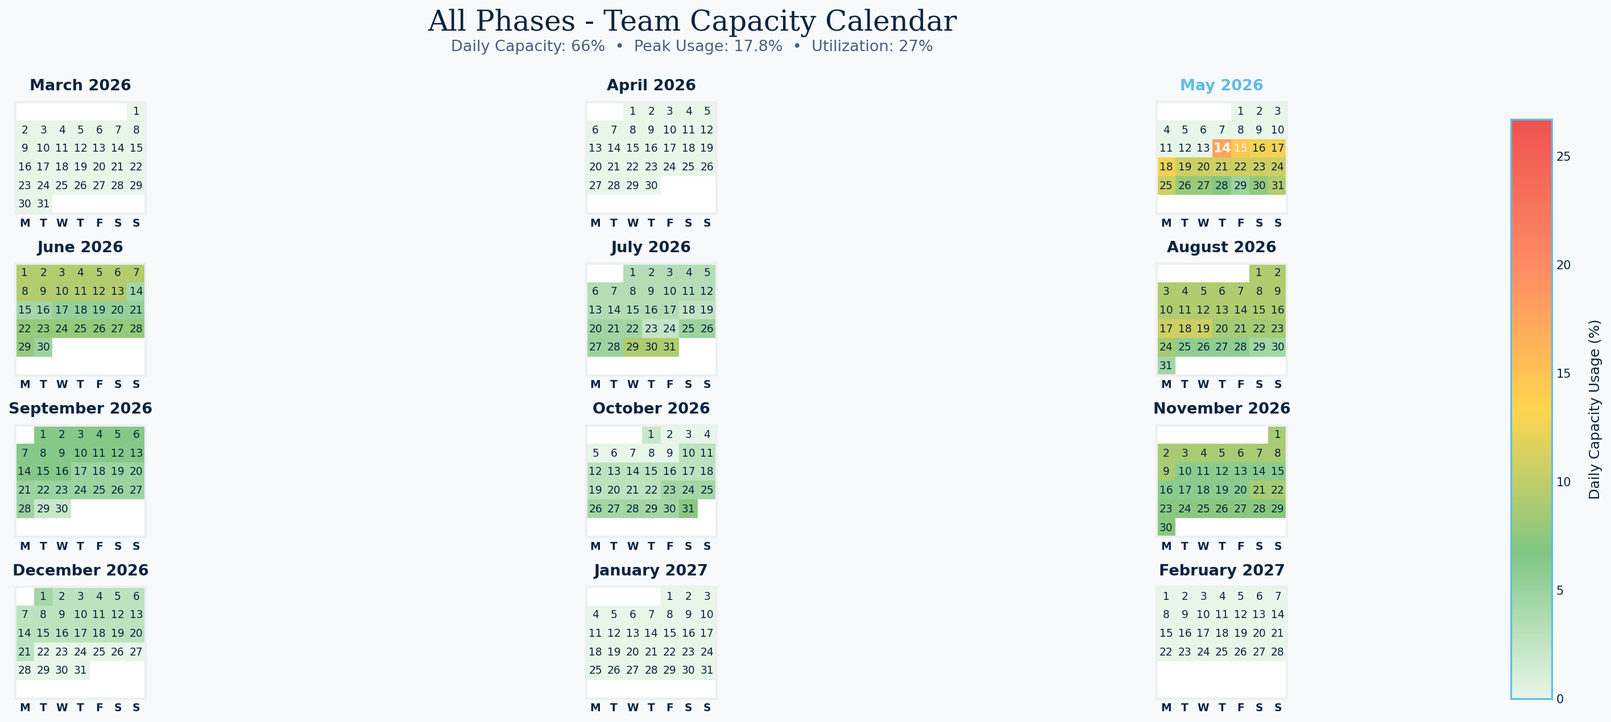
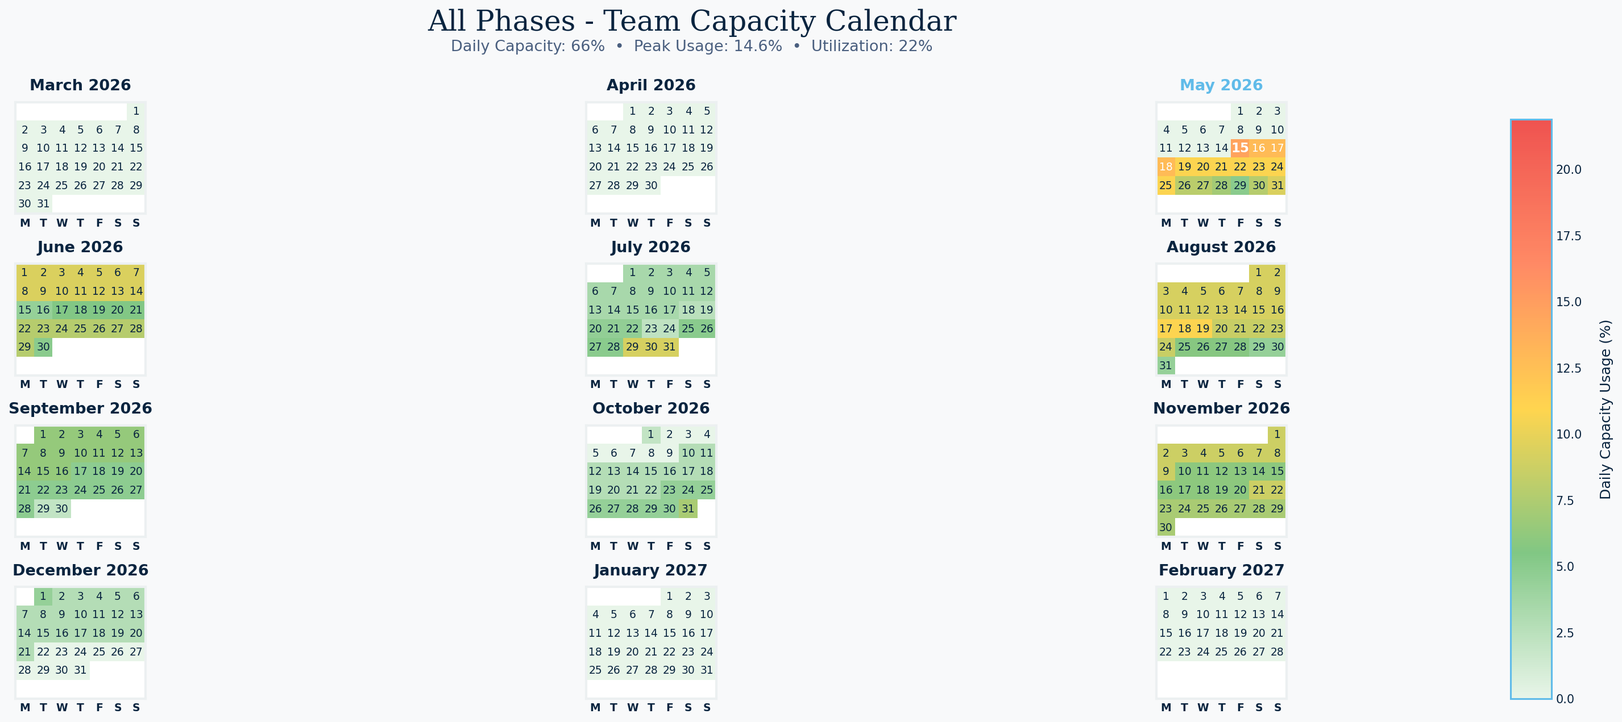
Update dashboard with latest data
🤖 Generated with [Claude Code](https://claude.com/claude-code)

diff --git a/Reports/capacity_dashboard.html b/Reports/capacity_dashboard.html
@@ -2449,7 +2449,7 @@
                 <div class="header-text">
                     <h1 id="dashboard-title">Perimeter Studio Dashboard</h1>
                     <p class="subtitle">Video Production Capacity Tracking & Performance Metrics</p>
-                    <p class="timestamp" aria-live="polite" aria-label="Dashboard last updated">Last Updated: May 14, 2026 at 11:45 PM</p>
+                    <p class="timestamp" aria-live="polite" aria-label="Dashboard last updated">Last Updated: May 15, 2026 at 12:00 AM</p>
                 </div>
                 <button class="theme-toggle" onclick="toggleTheme()" aria-label="Toggle dark/light mode" aria-describedby="theme-description">
                     <span id="themeText">Dark Mode</span>
@@ -2589,7 +2589,7 @@
                         Post Production | Adriel Abella | Due: 2026-04-06
                     </div>
                     <div class="task-risk">
-                        • Overdue by 38 days
+                        • Overdue by 39 days
                     </div>
                 </div>
             
@@ -2599,7 +2599,27 @@
                         Post Production | Adriel Abella | Due: 2026-04-08
                     </div>
                     <div class="task-risk">
-                        • Overdue by 36 days
+                        • Overdue by 37 days
+                    </div>
+                </div>
+            
+                <div class="at-risk-item">
+                    <div class="project-task-name">WOV - Hanan Betancourt</div>
+                    <div class="task-detail">
+                        Post Production | Adriel Abella | Due: 2026-05-14
+                    </div>
+                    <div class="task-risk">
+                        • Overdue by 1 days
+                    </div>
+                </div>
+            
+                <div class="at-risk-item">
+                    <div class="project-task-name">ASK a Pastor — May 11</div>
+                    <div class="task-detail">
+                        Post Production | Adriel Abella | Due: 2026-05-14
+                    </div>
+                    <div class="task-risk">
+                        • Overdue by 1 days
                     </div>
                 </div>
             
@@ -2991,108 +3011,108 @@
                 <!-- Timeline bars -->
                 <div style="display: flex; gap: 3px; height: 60px; align-items: flex-end;">
     
-                    <div style="flex: 1; background: #fd7e14; height: 26.0%; border-radius: 4px 4px 0 0; position: relative; min-width: 8px; cursor: pointer;"
-                         title="Week 1 (2026-05-14): 20% capacity, 15 tasks">
+                    <div style="flex: 1; background: #fd7e14; height: 24.030303030303035%; border-radius: 4px 4px 0 0; position: relative; min-width: 8px; cursor: pointer;"
+                         title="Week 1 (2026-05-15): 18% capacity, 13 tasks">
                     </div>
         
-                    <div style="flex: 1; background: #ffc107; height: 19.6969696969697%; border-radius: 4px 4px 0 0; position: relative; min-width: 8px; cursor: pointer;"
-                         title="Week 2 (2026-05-21): 15% capacity, 10 tasks">
+                    <div style="flex: 1; background: #ffc107; height: 18.627705627705627%; border-radius: 4px 4px 0 0; position: relative; min-width: 8px; cursor: pointer;"
+                         title="Week 2 (2026-05-22): 14% capacity, 9 tasks">
                     </div>
         
-                    <div style="flex: 1; background: #ffc107; height: 16.151515151515152%; border-radius: 4px 4px 0 0; position: relative; min-width: 8px; cursor: pointer;"
-                         title="Week 3 (2026-05-28): 12% capacity, 9 tasks">
+                    <div style="flex: 1; background: #ffc107; height: 16.82683982683983%; border-radius: 4px 4px 0 0; position: relative; min-width: 8px; cursor: pointer;"
+                         title="Week 3 (2026-05-29): 13% capacity, 7 tasks">
                     </div>
         
                     <div style="flex: 1; background: #ffc107; height: 18.515151515151512%; border-radius: 4px 4px 0 0; position: relative; min-width: 8px; cursor: pointer;"
-                         title="Week 4 (2026-06-04): 14% capacity, 7 tasks">
+                         title="Week 4 (2026-06-05): 14% capacity, 7 tasks">
                     </div>
         
-                    <div style="flex: 1; background: #28a745; height: 13.168831168831169%; border-radius: 4px 4px 0 0; position: relative; min-width: 8px; cursor: pointer;"
-                         title="Week 5 (2026-06-11): 10% capacity, 8 tasks">
+                    <div style="flex: 1; background: #ffc107; height: 13.45021645021645%; border-radius: 4px 4px 0 0; position: relative; min-width: 8px; cursor: pointer;"
+                         title="Week 5 (2026-06-12): 10% capacity, 8 tasks">
                     </div>
         
-                    <div style="flex: 1; background: #28a745; height: 12.662337662337665%; border-radius: 4px 4px 0 0; position: relative; min-width: 8px; cursor: pointer;"
-                         title="Week 6 (2026-06-18): 10% capacity, 4 tasks">
+                    <div style="flex: 1; background: #ffc107; height: 13.337662337662339%; border-radius: 4px 4px 0 0; position: relative; min-width: 8px; cursor: pointer;"
+                         title="Week 6 (2026-06-19): 10% capacity, 4 tasks">
                     </div>
         
-                    <div style="flex: 1; background: #28a745; height: 13.337662337662339%; border-radius: 4px 4px 0 0; position: relative; min-width: 8px; cursor: pointer;"
-                         title="Week 7 (2026-06-25): 10% capacity, 4 tasks">
-                    </div>
-        
-                    <div style="flex: 1; background: #28a745; height: 6.696969696969697%; border-radius: 4px 4px 0 0; position: relative; min-width: 8px; cursor: pointer;"
-                         title="Week 8 (2026-07-02): 5% capacity, 2 tasks">
+                    <div style="flex: 1; background: #28a745; height: 12.0995670995671%; border-radius: 4px 4px 0 0; position: relative; min-width: 8px; cursor: pointer;"
+                         title="Week 7 (2026-06-26): 9% capacity, 4 tasks">
                     </div>
         
                     <div style="flex: 1; background: #28a745; height: 6.696969696969697%; border-radius: 4px 4px 0 0; position: relative; min-width: 8px; cursor: pointer;"
-                         title="Week 9 (2026-07-09): 5% capacity, 2 tasks">
+                         title="Week 8 (2026-07-03): 5% capacity, 2 tasks">
                     </div>
         
-                    <div style="flex: 1; background: #28a745; height: 7.147186147186147%; border-radius: 4px 4px 0 0; position: relative; min-width: 8px; cursor: pointer;"
-                         title="Week 10 (2026-07-16): 5% capacity, 3 tasks">
+                    <div style="flex: 1; background: #28a745; height: 6.696969696969697%; border-radius: 4px 4px 0 0; position: relative; min-width: 8px; cursor: pointer;"
+                         title="Week 9 (2026-07-10): 5% capacity, 2 tasks">
                     </div>
         
-                    <div style="flex: 1; background: #28a745; height: 9.454545454545455%; border-radius: 4px 4px 0 0; position: relative; min-width: 8px; cursor: pointer;"
-                         title="Week 11 (2026-07-23): 7% capacity, 3 tasks">
+                    <div style="flex: 1; background: #28a745; height: 6.80952380952381%; border-radius: 4px 4px 0 0; position: relative; min-width: 8px; cursor: pointer;"
+                         title="Week 10 (2026-07-17): 5% capacity, 3 tasks">
+                    </div>
+        
+                    <div style="flex: 1; background: #28a745; height: 11.424242424242426%; border-radius: 4px 4px 0 0; position: relative; min-width: 8px; cursor: pointer;"
+                         title="Week 11 (2026-07-24): 9% capacity, 3 tasks">
                     </div>
         
                     <div style="flex: 1; background: #ffc107; height: 18.121212121212125%; border-radius: 4px 4px 0 0; position: relative; min-width: 8px; cursor: pointer;"
-                         title="Week 12 (2026-07-30): 14% capacity, 3 tasks">
+                         title="Week 12 (2026-07-31): 14% capacity, 3 tasks">
                     </div>
         
                     <div style="flex: 1; background: #ffc107; height: 18.121212121212125%; border-radius: 4px 4px 0 0; position: relative; min-width: 8px; cursor: pointer;"
-                         title="Week 13 (2026-08-06): 14% capacity, 3 tasks">
+                         title="Week 13 (2026-08-07): 14% capacity, 3 tasks">
                     </div>
         
-                    <div style="flex: 1; background: #ffc107; height: 19.471861471861477%; border-radius: 4px 4px 0 0; position: relative; min-width: 8px; cursor: pointer;"
-                         title="Week 14 (2026-08-13): 15% capacity, 4 tasks">
+                    <div style="flex: 1; background: #ffc107; height: 19.303030303030305%; border-radius: 4px 4px 0 0; position: relative; min-width: 8px; cursor: pointer;"
+                         title="Week 14 (2026-08-14): 15% capacity, 4 tasks">
                     </div>
         
-                    <div style="flex: 1; background: #ffc107; height: 15.363636363636369%; border-radius: 4px 4px 0 0; position: relative; min-width: 8px; cursor: pointer;"
-                         title="Week 15 (2026-08-20): 12% capacity, 3 tasks">
+                    <div style="flex: 1; background: #ffc107; height: 14.57575757575758%; border-radius: 4px 4px 0 0; position: relative; min-width: 8px; cursor: pointer;"
+                         title="Week 15 (2026-08-21): 11% capacity, 3 tasks">
                     </div>
         
-                    <div style="flex: 1; background: #28a745; height: 10.580086580086581%; border-radius: 4px 4px 0 0; position: relative; min-width: 8px; cursor: pointer;"
-                         title="Week 16 (2026-08-27): 8% capacity, 4 tasks">
-                    </div>
-        
-                    <div style="flex: 1; background: #28a745; height: 12.606060606060607%; border-radius: 4px 4px 0 0; position: relative; min-width: 8px; cursor: pointer;"
-                         title="Week 17 (2026-09-03): 10% capacity, 3 tasks">
+                    <div style="flex: 1; background: #28a745; height: 10.74891774891775%; border-radius: 4px 4px 0 0; position: relative; min-width: 8px; cursor: pointer;"
+                         title="Week 16 (2026-08-28): 8% capacity, 4 tasks">
                     </div>
         
                     <div style="flex: 1; background: #28a745; height: 12.606060606060607%; border-radius: 4px 4px 0 0; position: relative; min-width: 8px; cursor: pointer;"
-                         title="Week 18 (2026-09-10): 10% capacity, 3 tasks">
+                         title="Week 17 (2026-09-04): 10% capacity, 3 tasks">
+                    </div>
+        
+                    <div style="flex: 1; background: #28a745; height: 12.155844155844155%; border-radius: 4px 4px 0 0; position: relative; min-width: 8px; cursor: pointer;"
+                         title="Week 18 (2026-09-11): 9% capacity, 3 tasks">
                     </div>
         
                     <div style="flex: 1; background: #28a745; height: 9.454545454545455%; border-radius: 4px 4px 0 0; position: relative; min-width: 8px; cursor: pointer;"
-                         title="Week 19 (2026-09-17): 7% capacity, 2 tasks">
+                         title="Week 19 (2026-09-18): 7% capacity, 2 tasks">
                     </div>
         
-                    <div style="flex: 1; background: #28a745; height: 7.87878787878788%; border-radius: 4px 4px 0 0; position: relative; min-width: 8px; cursor: pointer;"
-                         title="Week 20 (2026-09-24): 6% capacity, 2 tasks">
-                    </div>
-        
-                    <div style="flex: 1; background: #28a745; height: 5%; border-radius: 4px 4px 0 0; position: relative; min-width: 8px; cursor: pointer;"
-                         title="Week 21 (2026-10-01): 0% capacity, 1 tasks">
+                    <div style="flex: 1; background: #28a745; height: 7.090909090909092%; border-radius: 4px 4px 0 0; position: relative; min-width: 8px; cursor: pointer;"
+                         title="Week 20 (2026-09-25): 5% capacity, 2 tasks">
                     </div>
         
                     <div style="flex: 1; background: #28a745; height: 5%; border-radius: 4px 4px 0 0; position: relative; min-width: 8px; cursor: pointer;"
-                         title="Week 22 (2026-10-08): 3% capacity, 1 tasks">
+                         title="Week 21 (2026-10-02): 0% capacity, 0 tasks">
+                    </div>
+        
+                    <div style="flex: 1; background: #28a745; height: 5%; border-radius: 4px 4px 0 0; position: relative; min-width: 8px; cursor: pointer;"
+                         title="Week 22 (2026-10-09): 4% capacity, 1 tasks">
                     </div>
         
                     <div style="flex: 1; background: #28a745; height: 5.5151515151515165%; border-radius: 4px 4px 0 0; position: relative; min-width: 8px; cursor: pointer;"
-                         title="Week 23 (2026-10-15): 4% capacity, 1 tasks">
+                         title="Week 23 (2026-10-16): 4% capacity, 1 tasks">
                     </div>
         
-                    <div style="flex: 1; background: #28a745; height: 8.216450216450216%; border-radius: 4px 4px 0 0; position: relative; min-width: 8px; cursor: pointer;"
-                         title="Week 24 (2026-10-22): 6% capacity, 2 tasks">
+                    <div style="flex: 1; background: #28a745; height: 8.666666666666668%; border-radius: 4px 4px 0 0; position: relative; min-width: 8px; cursor: pointer;"
+                         title="Week 24 (2026-10-23): 7% capacity, 2 tasks">
                     </div>
         
-                    <div style="flex: 1; background: #ffc107; height: 14.406926406926408%; border-radius: 4px 4px 0 0; position: relative; min-width: 8px; cursor: pointer;"
-                         title="Week 25 (2026-10-29): 11% capacity, 4 tasks">
+                    <div style="flex: 1; background: #ffc107; height: 15.645021645021648%; border-radius: 4px 4px 0 0; position: relative; min-width: 8px; cursor: pointer;"
+                         title="Week 25 (2026-10-30): 12% capacity, 4 tasks">
                     </div>
         
-                    <div style="flex: 1; background: #ffc107; height: 15.75757575757576%; border-radius: 4px 4px 0 0; position: relative; min-width: 8px; cursor: pointer;"
-                         title="Week 26 (2026-11-05): 12% capacity, 4 tasks">
+                    <div style="flex: 1; background: #ffc107; height: 14.96969696969697%; border-radius: 4px 4px 0 0; position: relative; min-width: 8px; cursor: pointer;"
+                         title="Week 26 (2026-11-06): 12% capacity, 4 tasks">
                     </div>
         
                 </div>
@@ -3175,12 +3195,7 @@
             </div>
             <div class="heatmap-grid">
     
-                <div style="background: #fd7e14; color: white; padding: 8px; border-radius: 4px; text-align: center; font-size: 11px;" title="2026-05-14: 27.0% capacity">
-                    <div style="font-weight: bold;">05/14</div>
-                    <div style="font-size: 9px; margin-top: 2px;">27%</div>
-                </div>
-        
-                <div style="background: #ffc107; color: white; padding: 8px; border-radius: 4px; text-align: center; font-size: 11px;" title="2026-05-15: 22.1% capacity">
+                <div style="background: #fd7e14; color: white; padding: 8px; border-radius: 4px; text-align: center; font-size: 11px;" title="2026-05-15: 22.1% capacity">
                     <div style="font-weight: bold;">05/15</div>
                     <div style="font-size: 9px; margin-top: 2px;">22%</div>
                 </div>
@@ -3235,12 +3250,12 @@
                     <div style="font-size: 9px; margin-top: 2px;">16%</div>
                 </div>
         
-                <div style="background: #28a745; color: white; padding: 8px; border-radius: 4px; text-align: center; font-size: 11px;" title="2026-05-26: 12.1% capacity">
+                <div style="background: #ffc107; color: white; padding: 8px; border-radius: 4px; text-align: center; font-size: 11px;" title="2026-05-26: 12.1% capacity">
                     <div style="font-weight: bold;">05/26</div>
                     <div style="font-size: 9px; margin-top: 2px;">12%</div>
                 </div>
         
-                <div style="background: #28a745; color: white; padding: 8px; border-radius: 4px; text-align: center; font-size: 11px;" title="2026-05-27: 12.1% capacity">
+                <div style="background: #ffc107; color: white; padding: 8px; border-radius: 4px; text-align: center; font-size: 11px;" title="2026-05-27: 12.1% capacity">
                     <div style="font-weight: bold;">05/27</div>
                     <div style="font-size: 9px; margin-top: 2px;">12%</div>
                 </div>
@@ -3255,7 +3270,7 @@
                     <div style="font-size: 9px; margin-top: 2px;">8%</div>
                 </div>
         
-                <div style="background: #28a745; color: white; padding: 8px; border-radius: 4px; text-align: center; font-size: 11px;" title="2026-05-30: 11.8% capacity">
+                <div style="background: #ffc107; color: white; padding: 8px; border-radius: 4px; text-align: center; font-size: 11px;" title="2026-05-30: 11.8% capacity">
                     <div style="font-weight: bold;">05/30</div>
                     <div style="font-size: 9px; margin-top: 2px;">12%</div>
                 </div>
@@ -3322,6 +3337,11 @@
         
                 <div style="background: #ffc107; color: white; padding: 8px; border-radius: 4px; text-align: center; font-size: 11px;" title="2026-06-12: 14.2% capacity">
                     <div style="font-weight: bold;">06/12</div>
+                    <div style="font-size: 9px; margin-top: 2px;">14%</div>
+                </div>
+        
+                <div style="background: #ffc107; color: white; padding: 8px; border-radius: 4px; text-align: center; font-size: 11px;" title="2026-06-13: 14.2% capacity">
+                    <div style="font-weight: bold;">06/13</div>
                     <div style="font-size: 9px; margin-top: 2px;">14%</div>
                 </div>
         
@@ -4129,7 +4149,7 @@ Dec 1...
                 const historyCtx = chartElement.getContext('2d');
                 console.log('Canvas context obtained:', !!historyCtx);
 
-                const capacityHistoryByMember = {"Zach Welliver": [{"date": "2026-04-14", "utilization_percent": 66.0}, {"date": "2026-04-15", "utilization_percent": 66.0}, {"date": "2026-04-16", "utilization_percent": 47.0}, {"date": "2026-04-17", "utilization_percent": 52.0}, {"date": "2026-04-18", "utilization_percent": 52.0}, {"date": "2026-04-19", "utilization_percent": 52.0}, {"date": "2026-04-20", "utilization_percent": 43.0}, {"date": "2026-04-21", "utilization_percent": 43.0}, {"date": "2026-04-22", "utilization_percent": 43.0}, {"date": "2026-04-23", "utilization_percent": 38.0}, {"date": "2026-04-24", "utilization_percent": 38.0}, {"date": "2026-04-25", "utilization_percent": 38.0}, {"date": "2026-04-26", "utilization_percent": 38.0}, {"date": "2026-04-27", "utilization_percent": 43.0}, {"date": "2026-04-28", "utilization_percent": 20.0}, {"date": "2026-04-29", "utilization_percent": 15.0}, {"date": "2026-04-30", "utilization_percent": 15.0}, {"date": "2026-05-01", "utilization_percent": 15.0}, {"date": "2026-05-02", "utilization_percent": 15.0}, {"date": "2026-05-03", "utilization_percent": 15.0}, {"date": "2026-05-04", "utilization_percent": 15.0}, {"date": "2026-05-05", "utilization_percent": 15.0}, {"date": "2026-05-06", "utilization_percent": 15.0}, {"date": "2026-05-07", "utilization_percent": 20.0}, {"date": "2026-05-08", "utilization_percent": 20.0}, {"date": "2026-05-09", "utilization_percent": 20.0}, {"date": "2026-05-10", "utilization_percent": 20.0}, {"date": "2026-05-11", "utilization_percent": 15.0}, {"date": "2026-05-12", "utilization_percent": 15.0}, {"date": "2026-05-13", "utilization_percent": 15.0}], "Nick Clark": [{"date": "2026-04-14", "utilization_percent": 31.0}, {"date": "2026-04-15", "utilization_percent": 25.0}, {"date": "2026-04-16", "utilization_percent": 32.0}, {"date": "2026-04-17", "utilization_percent": 42.0}, {"date": "2026-04-18", "utilization_percent": 42.0}, {"date": "2026-04-19", "utilization_percent": 42.0}, {"date": "2026-04-20", "utilization_percent": 27.0}, {"date": "2026-04-21", "utilization_percent": 27.0}, {"date": "2026-04-22", "utilization_percent": 21.0}, {"date": "2026-04-23", "utilization_percent": 32.0}, {"date": "2026-04-24", "utilization_percent": 42.0}, {"date": "2026-04-25", "utilization_percent": 42.0}, {"date": "2026-04-26", "utilization_percent": 42.0}, {"date": "2026-04-27", "utilization_percent": 42.0}, {"date": "2026-04-28", "utilization_percent": 32.0}, {"date": "2026-04-29", "utilization_percent": 31.0}, {"date": "2026-04-30", "utilization_percent": 40.0}, {"date": "2026-05-01", "utilization_percent": 50.0}, {"date": "2026-05-02", "utilization_percent": 50.0}, {"date": "2026-05-03", "utilization_percent": 50.0}, {"date": "2026-05-04", "utilization_percent": 50.0}, {"date": "2026-05-05", "utilization_percent": 34.0}, {"date": "2026-05-06", "utilization_percent": 40.0}, {"date": "2026-05-07", "utilization_percent": 40.0}, {"date": "2026-05-08", "utilization_percent": 50.0}, {"date": "2026-05-09", "utilization_percent": 50.0}, {"date": "2026-05-10", "utilization_percent": 50.0}, {"date": "2026-05-11", "utilization_percent": 61.0}, {"date": "2026-05-12", "utilization_percent": 31.0}, {"date": "2026-05-13", "utilization_percent": 25.0}], "Adriel Abella": [{"date": "2026-04-14", "utilization_percent": 39.0}, {"date": "2026-04-15", "utilization_percent": 39.0}, {"date": "2026-04-16", "utilization_percent": 81.0}, {"date": "2026-04-17", "utilization_percent": 81.0}, {"date": "2026-04-18", "utilization_percent": 81.0}, {"date": "2026-04-19", "utilization_percent": 81.0}, {"date": "2026-04-20", "utilization_percent": 91.0}, {"date": "2026-04-21", "utilization_percent": 91.0}, {"date": "2026-04-22", "utilization_percent": 87.0}, {"date": "2026-04-23", "utilization_percent": 81.0}, {"date": "2026-04-24", "utilization_percent": 76.0}, {"date": "2026-04-25", "utilization_percent": 76.0}, {"date": "2026-04-26", "utilization_percent": 76.0}, {"date": "2026-04-27", "utilization_percent": 76.0}, {"date": "2026-04-28", "utilization_percent": 76.0}, {"date": "2026-04-29", "utilization_percent": 87.0}, {"date": "2026-04-30", "utilization_percent": 81.0}, {"date": "2026-05-01", "utilization_percent": 81.0}, {"date": "2026-05-02", "utilization_percent": 81.0}, {"date": "2026-05-03", "utilization_percent": 81.0}, {"date": "2026-05-04", "utilization_percent": 81.0}, {"date": "2026-05-05", "utilization_percent": 97.0}, {"date": "2026-05-06", "utilization_percent": 87.0}, {"date": "2026-05-07", "utilization_percent": 39.0}, {"date": "2026-05-08", "utilization_percent": 39.0}, {"date": "2026-05-09", "utilization_percent": 39.0}, {"date": "2026-05-10", "utilization_percent": 39.0}, {"date": "2026-05-11", "utilization_percent": 39.0}, {"date": "2026-05-12", "utilization_percent": 63.0}, {"date": "2026-05-13", "utilization_percent": 69.0}], "John Meyer": [{"date": "2026-04-14", "utilization_percent": 20.0}, {"date": "2026-04-15", "utilization_percent": 20.0}, {"date": "2026-04-16", "utilization_percent": 20.0}, {"date": "2026-04-17", "utilization_percent": 20.0}, {"date": "2026-04-18", "utilization_percent": 20.0}, {"date": "2026-04-19", "utilization_percent": 20.0}, {"date": "2026-04-20", "utilization_percent": 0.0}, {"date": "2026-04-21", "utilization_percent": 0.0}, {"date": "2026-04-22", "utilization_percent": 0.0}, {"date": "2026-04-23", "utilization_percent": 0.0}, {"date": "2026-04-24", "utilization_percent": 0.0}, {"date": "2026-04-25", "utilization_percent": 0.0}, {"date": "2026-04-26", "utilization_percent": 0.0}, {"date": "2026-04-27", "utilization_percent": 0.0}, {"date": "2026-04-28", "utilization_percent": 0.0}, {"date": "2026-04-29", "utilization_percent": 0.0}, {"date": "2026-04-30", "utilization_percent": 0.0}, {"date": "2026-05-01", "utilization_percent": 0.0}, {"date": "2026-05-02", "utilization_percent": 0.0}, {"date": "2026-05-03", "utilization_percent": 0.0}, {"date": "2026-05-04", "utilization_percent": 0.0}, {"date": "2026-05-05", "utilization_percent": 0.0}, {"date": "2026-05-06", "utilization_percent": 0.0}, {"date": "2026-05-07", "utilization_percent": 0.0}, {"date": "2026-05-08", "utilization_percent": 0.0}, {"date": "2026-05-09", "utilization_percent": 0.0}, {"date": "2026-05-10", "utilization_percent": 0.0}, {"date": "2026-05-11", "utilization_percent": 0.0}, {"date": "2026-05-12", "utilization_percent": 0.0}, {"date": "2026-05-13", "utilization_percent": 0.0}], "Team Total": [{"date": "2026-04-14", "utilization_percent": 43.0}, {"date": "2026-04-15", "utilization_percent": 41.2}, {"date": "2026-04-16", "utilization_percent": 50.3}, {"date": "2026-04-17", "utilization_percent": 54.8}, {"date": "2026-04-18", "utilization_percent": 54.8}, {"date": "2026-04-19", "utilization_percent": 54.8}, {"date": "2026-04-20", "utilization_percent": 48.8}, {"date": "2026-04-21", "utilization_percent": 48.8}, {"date": "2026-04-22", "utilization_percent": 45.8}, {"date": "2026-04-23", "utilization_percent": 45.8}, {"date": "2026-04-24", "utilization_percent": 47.3}, {"date": "2026-04-25", "utilization_percent": 47.3}, {"date": "2026-04-26", "utilization_percent": 47.3}, {"date": "2026-04-27", "utilization_percent": 48.8}, {"date": "2026-04-28", "utilization_percent": 38.8}, {"date": "2026-04-29", "utilization_percent": 40.3}, {"date": "2026-04-30", "utilization_percent": 41.2}, {"date": "2026-05-01", "utilization_percent": 44.2}, {"date": "2026-05-02", "utilization_percent": 44.2}, {"date": "2026-05-03", "utilization_percent": 44.2}, {"date": "2026-05-04", "utilization_percent": 44.2}, {"date": "2026-05-05", "utilization_percent": 44.2}, {"date": "2026-05-06", "utilization_percent": 43.0}, {"date": "2026-05-07", "utilization_percent": 30.0}, {"date": "2026-05-08", "utilization_percent": 33.0}, {"date": "2026-05-09", "utilization_percent": 33.0}, {"date": "2026-05-10", "utilization_percent": 33.0}, {"date": "2026-05-11", "utilization_percent": 34.8}, {"date": "2026-05-12", "utilization_percent": 33.0}, {"date": "2026-05-13", "utilization_percent": 33.0}]};
+                const capacityHistoryByMember = {"Zach Welliver": [{"date": "2026-04-15", "utilization_percent": 66.0}, {"date": "2026-04-16", "utilization_percent": 47.0}, {"date": "2026-04-17", "utilization_percent": 52.0}, {"date": "2026-04-18", "utilization_percent": 52.0}, {"date": "2026-04-19", "utilization_percent": 52.0}, {"date": "2026-04-20", "utilization_percent": 43.0}, {"date": "2026-04-21", "utilization_percent": 43.0}, {"date": "2026-04-22", "utilization_percent": 43.0}, {"date": "2026-04-23", "utilization_percent": 38.0}, {"date": "2026-04-24", "utilization_percent": 38.0}, {"date": "2026-04-25", "utilization_percent": 38.0}, {"date": "2026-04-26", "utilization_percent": 38.0}, {"date": "2026-04-27", "utilization_percent": 43.0}, {"date": "2026-04-28", "utilization_percent": 20.0}, {"date": "2026-04-29", "utilization_percent": 15.0}, {"date": "2026-04-30", "utilization_percent": 15.0}, {"date": "2026-05-01", "utilization_percent": 15.0}, {"date": "2026-05-02", "utilization_percent": 15.0}, {"date": "2026-05-03", "utilization_percent": 15.0}, {"date": "2026-05-04", "utilization_percent": 15.0}, {"date": "2026-05-05", "utilization_percent": 15.0}, {"date": "2026-05-06", "utilization_percent": 15.0}, {"date": "2026-05-07", "utilization_percent": 20.0}, {"date": "2026-05-08", "utilization_percent": 20.0}, {"date": "2026-05-09", "utilization_percent": 20.0}, {"date": "2026-05-10", "utilization_percent": 20.0}, {"date": "2026-05-11", "utilization_percent": 15.0}, {"date": "2026-05-12", "utilization_percent": 15.0}, {"date": "2026-05-13", "utilization_percent": 15.0}, {"date": "2026-05-14", "utilization_percent": 20.0}], "Nick Clark": [{"date": "2026-04-15", "utilization_percent": 25.0}, {"date": "2026-04-16", "utilization_percent": 32.0}, {"date": "2026-04-17", "utilization_percent": 42.0}, {"date": "2026-04-18", "utilization_percent": 42.0}, {"date": "2026-04-19", "utilization_percent": 42.0}, {"date": "2026-04-20", "utilization_percent": 27.0}, {"date": "2026-04-21", "utilization_percent": 27.0}, {"date": "2026-04-22", "utilization_percent": 21.0}, {"date": "2026-04-23", "utilization_percent": 32.0}, {"date": "2026-04-24", "utilization_percent": 42.0}, {"date": "2026-04-25", "utilization_percent": 42.0}, {"date": "2026-04-26", "utilization_percent": 42.0}, {"date": "2026-04-27", "utilization_percent": 42.0}, {"date": "2026-04-28", "utilization_percent": 32.0}, {"date": "2026-04-29", "utilization_percent": 31.0}, {"date": "2026-04-30", "utilization_percent": 40.0}, {"date": "2026-05-01", "utilization_percent": 50.0}, {"date": "2026-05-02", "utilization_percent": 50.0}, {"date": "2026-05-03", "utilization_percent": 50.0}, {"date": "2026-05-04", "utilization_percent": 50.0}, {"date": "2026-05-05", "utilization_percent": 34.0}, {"date": "2026-05-06", "utilization_percent": 40.0}, {"date": "2026-05-07", "utilization_percent": 40.0}, {"date": "2026-05-08", "utilization_percent": 50.0}, {"date": "2026-05-09", "utilization_percent": 50.0}, {"date": "2026-05-10", "utilization_percent": 50.0}, {"date": "2026-05-11", "utilization_percent": 61.0}, {"date": "2026-05-12", "utilization_percent": 31.0}, {"date": "2026-05-13", "utilization_percent": 25.0}, {"date": "2026-05-14", "utilization_percent": 25.0}], "Adriel Abella": [{"date": "2026-04-15", "utilization_percent": 39.0}, {"date": "2026-04-16", "utilization_percent": 81.0}, {"date": "2026-04-17", "utilization_percent": 81.0}, {"date": "2026-04-18", "utilization_percent": 81.0}, {"date": "2026-04-19", "utilization_percent": 81.0}, {"date": "2026-04-20", "utilization_percent": 91.0}, {"date": "2026-04-21", "utilization_percent": 91.0}, {"date": "2026-04-22", "utilization_percent": 87.0}, {"date": "2026-04-23", "utilization_percent": 81.0}, {"date": "2026-04-24", "utilization_percent": 76.0}, {"date": "2026-04-25", "utilization_percent": 76.0}, {"date": "2026-04-26", "utilization_percent": 76.0}, {"date": "2026-04-27", "utilization_percent": 76.0}, {"date": "2026-04-28", "utilization_percent": 76.0}, {"date": "2026-04-29", "utilization_percent": 87.0}, {"date": "2026-04-30", "utilization_percent": 81.0}, {"date": "2026-05-01", "utilization_percent": 81.0}, {"date": "2026-05-02", "utilization_percent": 81.0}, {"date": "2026-05-03", "utilization_percent": 81.0}, {"date": "2026-05-04", "utilization_percent": 81.0}, {"date": "2026-05-05", "utilization_percent": 97.0}, {"date": "2026-05-06", "utilization_percent": 87.0}, {"date": "2026-05-07", "utilization_percent": 39.0}, {"date": "2026-05-08", "utilization_percent": 39.0}, {"date": "2026-05-09", "utilization_percent": 39.0}, {"date": "2026-05-10", "utilization_percent": 39.0}, {"date": "2026-05-11", "utilization_percent": 39.0}, {"date": "2026-05-12", "utilization_percent": 63.0}, {"date": "2026-05-13", "utilization_percent": 69.0}, {"date": "2026-05-14", "utilization_percent": 69.0}], "John Meyer": [{"date": "2026-04-15", "utilization_percent": 20.0}, {"date": "2026-04-16", "utilization_percent": 20.0}, {"date": "2026-04-17", "utilization_percent": 20.0}, {"date": "2026-04-18", "utilization_percent": 20.0}, {"date": "2026-04-19", "utilization_percent": 20.0}, {"date": "2026-04-20", "utilization_percent": 0.0}, {"date": "2026-04-21", "utilization_percent": 0.0}, {"date": "2026-04-22", "utilization_percent": 0.0}, {"date": "2026-04-23", "utilization_percent": 0.0}, {"date": "2026-04-24", "utilization_percent": 0.0}, {"date": "2026-04-25", "utilization_percent": 0.0}, {"date": "2026-04-26", "utilization_percent": 0.0}, {"date": "2026-04-27", "utilization_percent": 0.0}, {"date": "2026-04-28", "utilization_percent": 0.0}, {"date": "2026-04-29", "utilization_percent": 0.0}, {"date": "2026-04-30", "utilization_percent": 0.0}, {"date": "2026-05-01", "utilization_percent": 0.0}, {"date": "2026-05-02", "utilization_percent": 0.0}, {"date": "2026-05-03", "utilization_percent": 0.0}, {"date": "2026-05-04", "utilization_percent": 0.0}, {"date": "2026-05-05", "utilization_percent": 0.0}, {"date": "2026-05-06", "utilization_percent": 0.0}, {"date": "2026-05-07", "utilization_percent": 0.0}, {"date": "2026-05-08", "utilization_percent": 0.0}, {"date": "2026-05-09", "utilization_percent": 0.0}, {"date": "2026-05-10", "utilization_percent": 0.0}, {"date": "2026-05-11", "utilization_percent": 0.0}, {"date": "2026-05-12", "utilization_percent": 0.0}, {"date": "2026-05-13", "utilization_percent": 0.0}, {"date": "2026-05-14", "utilization_percent": 0.0}], "Team Total": [{"date": "2026-04-15", "utilization_percent": 41.2}, {"date": "2026-04-16", "utilization_percent": 50.3}, {"date": "2026-04-17", "utilization_percent": 54.8}, {"date": "2026-04-18", "utilization_percent": 54.8}, {"date": "2026-04-19", "utilization_percent": 54.8}, {"date": "2026-04-20", "utilization_percent": 48.8}, {"date": "2026-04-21", "utilization_percent": 48.8}, {"date": "2026-04-22", "utilization_percent": 45.8}, {"date": "2026-04-23", "utilization_percent": 45.8}, {"date": "2026-04-24", "utilization_percent": 47.3}, {"date": "2026-04-25", "utilization_percent": 47.3}, {"date": "2026-04-26", "utilization_percent": 47.3}, {"date": "2026-04-27", "utilization_percent": 48.8}, {"date": "2026-04-28", "utilization_percent": 38.8}, {"date": "2026-04-29", "utilization_percent": 40.3}, {"date": "2026-04-30", "utilization_percent": 41.2}, {"date": "2026-05-01", "utilization_percent": 44.2}, {"date": "2026-05-02", "utilization_percent": 44.2}, {"date": "2026-05-03", "utilization_percent": 44.2}, {"date": "2026-05-04", "utilization_percent": 44.2}, {"date": "2026-05-05", "utilization_percent": 44.2}, {"date": "2026-05-06", "utilization_percent": 43.0}, {"date": "2026-05-07", "utilization_percent": 30.0}, {"date": "2026-05-08", "utilization_percent": 33.0}, {"date": "2026-05-09", "utilization_percent": 33.0}, {"date": "2026-05-10", "utilization_percent": 33.0}, {"date": "2026-05-11", "utilization_percent": 34.8}, {"date": "2026-05-12", "utilization_percent": 33.0}, {"date": "2026-05-13", "utilization_percent": 33.0}, {"date": "2026-05-14", "utilization_percent": 34.5}]};
                 console.log('Data received:', Object.keys(capacityHistoryByMember), 'members with data');
 
                 // Build datasets for each team member
